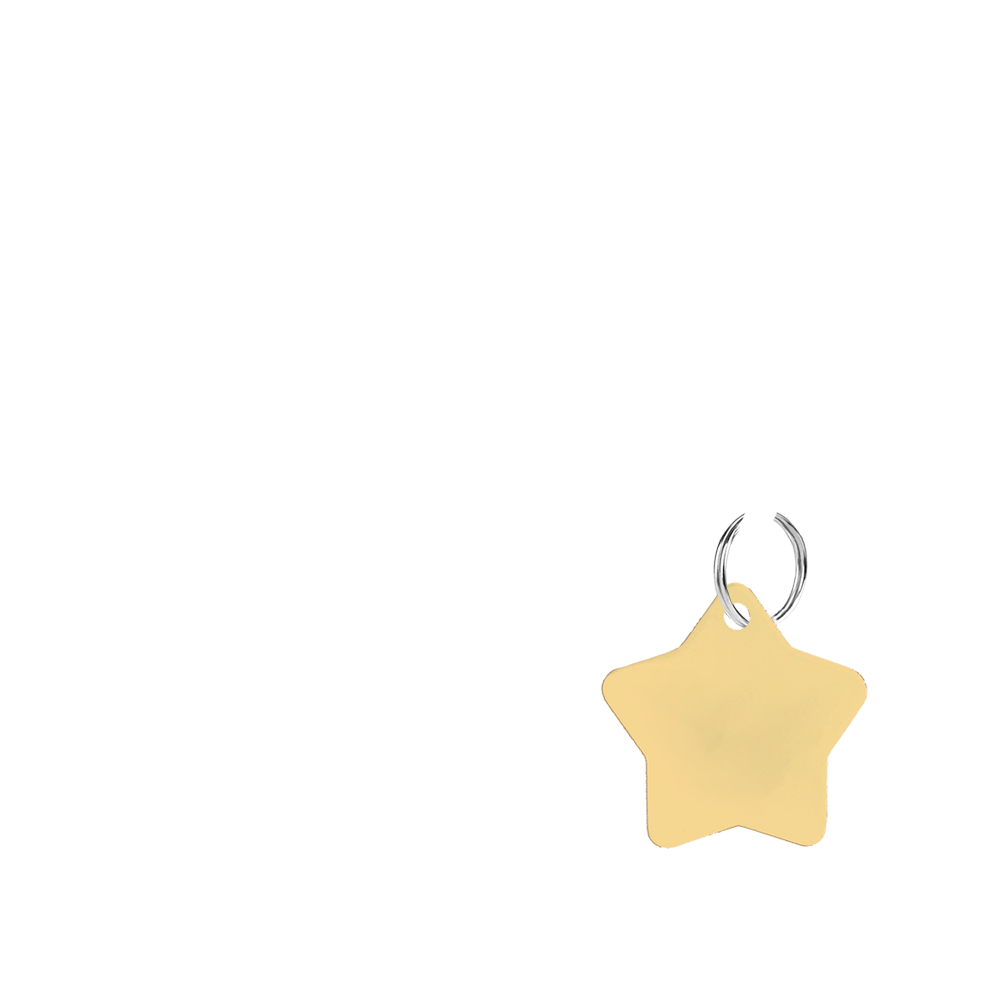
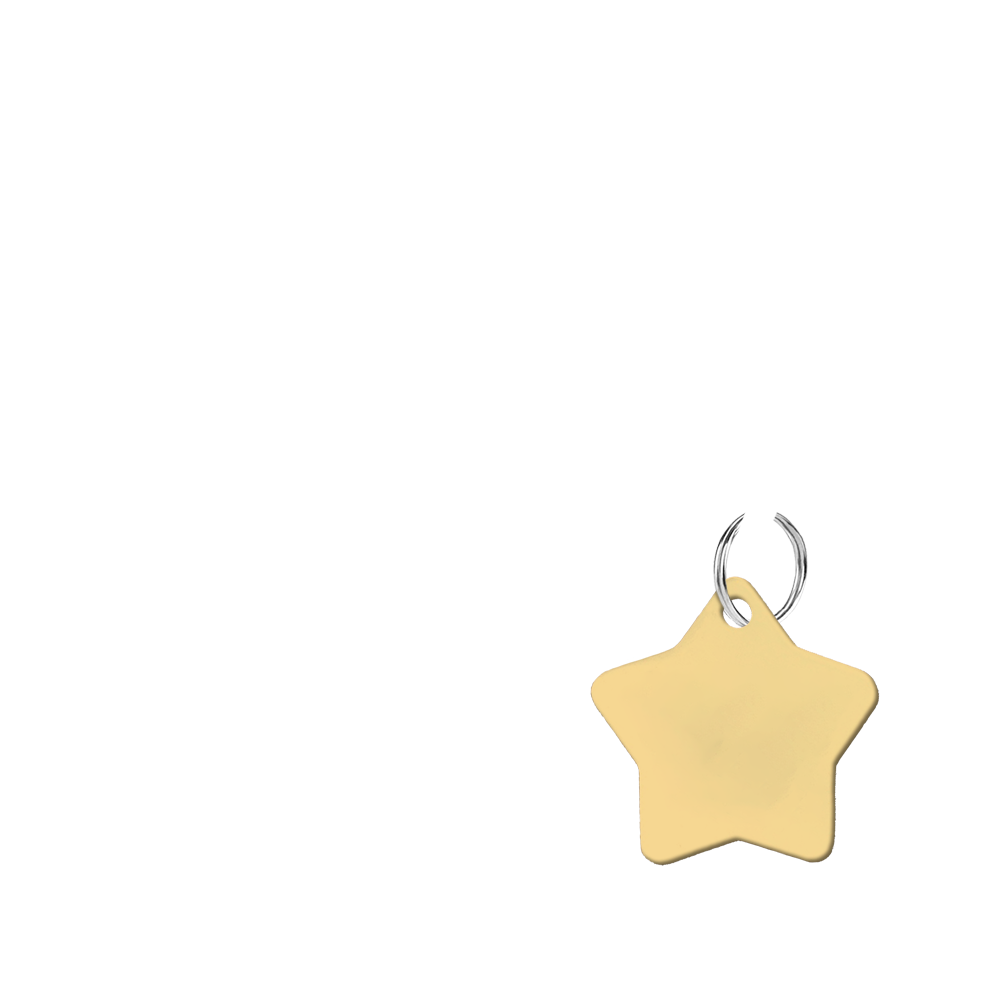
客製化更新

Changed region(s): [[0.589, 0.651, 0.899, 0.868], [0.682, 0.558, 0.775, 0.651], [0.775, 0.62, 0.806, 0.651]]

diff --git a/dest/customized.html b/dest/customized.html
@@ -48,7 +48,6 @@
         <div class="content">
             <!-- 客製化content,含預覽區以及編輯區 -->
             <div class="preview_area" id="preview_area" style="background-color: rgba(255, 185, 185, 0.3)">
-                <h1 class="enSpecialFont">Collar</h1>
                 <!-- 預覽區 -->
                 <canvas id="canvas2" style="border: 0px solid blue;"></canvas>
                 <canvas id="canvas" style="border: 0px solid red;"></canvas>
@@ -130,7 +129,7 @@
                     <div id="tabsContent">
                         <div id="tab-1" class="tab-content current">
                             <div class="collarImagesContainer" style="padding: 0px;">
-                                <div class="collarImagesBoxs" style="background-color: rgba(255, 185, 185, 0.4); border: 3px solid #7e9c23;" id="collarImage1"><img src="./img/customized_collar/collarImages/1collar_FFB9B9.png" class="collarImages imageApplying"><img src="./img/customized_collar/collar_shadow.png" class="collarShadow shadowApplying"></div>
+                                <div class="collarImagesBoxs" style="background-color: rgba(255, 185, 185, 0.4); border: 0px solid #7e9c23;" id="collarImage1"><img src="./img/customized_collar/collarImages/1collar_FFB9B9.png" class="collarImages imageApplying"><img src="./img/customized_collar/collar_shadow.png" class="collarShadow shadowApplying"></div>
                                 <div class="collarImagesBoxs" style="background-color: rgba(255, 128, 128, 0.4);" id="collarImage2"><img src="./img/customized_collar/collarImages/2collar_FF8080.png" class="collarImages"><img src="./img/customized_collar/collar_shadow.png" class="collarShadow"></div>
                                 <div class="collarImagesBoxs" style="background-color: rgba(198, 36, 36, 0.4);" id="collarImage3"><img src="./img/customized_collar/collarImages/3collar_C62424.png" class="collarImages"><img src="./img/customized_collar/collar_shadow.png" class="collarShadow"></div>
                                 <div class="collarImagesBoxs" style="background-color: rgba(255, 181, 106, 0.4);" id="collarImage4"><img src="./img/customized_collar/collarImages/4collar_FFB46A.png" class="collarImages"><img src="./img/customized_collar/collar_shadow.png" class="collarShadow"></div>
@@ -197,7 +196,7 @@
                                         </div>
                                     </div>
                                     <div class="tagItems">
-                                        <img src="./img/customized_collar/tag_png/fishTag.png" alt="" class="tagImages">
+                                        <img src="./img/customized_collar/tag_png/fishTag_2.png" alt="" class="tagImages">
                                         <div class="lockPoint">
                                             <span>所需點數&nbsp;:</span>
                                             <span>&nbsp;300</span>
@@ -227,7 +226,7 @@
                                         </div>
                                     </div>
                                     <div class="tagItems">
-                                        <img src="./img/customized_collar/tag_png/spadesTag.png" alt="" class="tagImages">
+                                        <img src="./img/customized_collar/tag_png/spadesTag_2.png" alt="" class="tagImages">
                                         <div class="lockPoint">
                                             <span>所需點數&nbsp;:</span>
                                             <span>&nbsp;300</span>
@@ -477,7 +476,7 @@
                             $(this).parent().children().children().next().removeClass("shadowApplying");
                             $(this).children().next().addClass("shadowApplying");
                             $(this).parent().children().css("border", "0px solid red");
-                            $(this).css("border", "3px solid #7e9c23");
+                            $(this).css("border", "0px solid #7e9c23");
 
                             preBackgroundColor = $(this).css("background-color");
                             $('#preview_area').css("background-color", preBackgroundColor);

diff --git a/dev/customized.html b/dev/customized.html
@@ -20,7 +20,6 @@
         <div class="content">
             <!-- 客製化content,含預覽區以及編輯區 -->
             <div class="preview_area" id="preview_area" style="background-color: rgba(255, 185, 185, 0.3)">
-                <h1 class="enSpecialFont">Collar</h1>
                 <!-- 預覽區 -->
                 <canvas id="canvas2" style="border: 0px solid blue;"></canvas>
                 <canvas id="canvas" style="border: 0px solid red;"></canvas>
@@ -102,7 +101,7 @@
                     <div id="tabsContent">
                         <div id="tab-1" class="tab-content current">
                             <div class="collarImagesContainer" style="padding: 0px;">
-                                <div class="collarImagesBoxs" style="background-color: rgba(255, 185, 185, 0.4); border: 3px solid #7e9c23;" id="collarImage1"><img src="./img/customized_collar/collarImages/1collar_FFB9B9.png" class="collarImages imageApplying"><img src="./img/customized_collar/collar_shadow.png" class="collarShadow shadowApplying"></div>
+                                <div class="collarImagesBoxs" style="background-color: rgba(255, 185, 185, 0.4); border: 0px solid #7e9c23;" id="collarImage1"><img src="./img/customized_collar/collarImages/1collar_FFB9B9.png" class="collarImages imageApplying"><img src="./img/customized_collar/collar_shadow.png" class="collarShadow shadowApplying"></div>
                                 <div class="collarImagesBoxs" style="background-color: rgba(255, 128, 128, 0.4);" id="collarImage2"><img src="./img/customized_collar/collarImages/2collar_FF8080.png" class="collarImages"><img src="./img/customized_collar/collar_shadow.png" class="collarShadow"></div>
                                 <div class="collarImagesBoxs" style="background-color: rgba(198, 36, 36, 0.4);" id="collarImage3"><img src="./img/customized_collar/collarImages/3collar_C62424.png" class="collarImages"><img src="./img/customized_collar/collar_shadow.png" class="collarShadow"></div>
                                 <div class="collarImagesBoxs" style="background-color: rgba(255, 181, 106, 0.4);" id="collarImage4"><img src="./img/customized_collar/collarImages/4collar_FFB46A.png" class="collarImages"><img src="./img/customized_collar/collar_shadow.png" class="collarShadow"></div>
@@ -169,7 +168,7 @@
                                         </div>
                                     </div>
                                     <div class="tagItems">
-                                        <img src="./img/customized_collar/tag_png/fishTag.png" alt="" class="tagImages">
+                                        <img src="./img/customized_collar/tag_png/fishTag_2.png" alt="" class="tagImages">
                                         <div class="lockPoint">
                                             <span>所需點數&nbsp;:</span>
                                             <span>&nbsp;300</span>
@@ -199,7 +198,7 @@
                                         </div>
                                     </div>
                                     <div class="tagItems">
-                                        <img src="./img/customized_collar/tag_png/spadesTag.png" alt="" class="tagImages">
+                                        <img src="./img/customized_collar/tag_png/spadesTag_2.png" alt="" class="tagImages">
                                         <div class="lockPoint">
                                             <span>所需點數&nbsp;:</span>
                                             <span>&nbsp;300</span>
@@ -449,7 +448,7 @@
                             $(this).parent().children().children().next().removeClass("shadowApplying");
                             $(this).children().next().addClass("shadowApplying");
                             $(this).parent().children().css("border", "0px solid red");
-                            $(this).css("border", "3px solid #7e9c23");
+                            $(this).css("border", "0px solid #7e9c23");
 
                             preBackgroundColor = $(this).css("background-color");
                             $('#preview_area').css("background-color", preBackgroundColor);

diff --git a/dest/js/customized.js b/dest/js/customized.js
@@ -240,16 +240,16 @@ function dofirst() {
     resizeCanvas();
 
     function resizeCanvas() {
-        canvas.width = previewArea.clientWidth;
-        canvas.height = previewArea.clientHeight;
-        canvas2.width = previewArea.clientWidth;
-        canvas2.height = previewArea.clientHeight;
-        imgRatio = 1000 / 1000;
-        imgWidth = previewArea.clientWidth * 0.7;
-        imgHeight = imgWidth * imgRatio;
-        imgOffsetX = (canvas.width - imgWidth) / 2;
-        imgOffsetY = (canvas.height - imgHeight) / 2;
-        if (window.innerWidth <= 414) {
+        canvas.width = previewArea.clientWidth; //第一個canvas的寬 = 父層div的寬
+        canvas.height = previewArea.clientHeight; //第一個canvas的高 = 父層div的高
+        canvas2.width = previewArea.clientWidth; //第二個canvas的寬 = 父層div的寬
+        canvas2.height = previewArea.clientHeight; //第二個canvas的高 = 父層div的高
+        imgRatio = 1000 / 1000; //圖片寬高比例
+        imgWidth = previewArea.clientWidth * 0.7; //圖片寬度參數
+        imgHeight = imgWidth * imgRatio; //圖片高度參數
+        imgOffsetX = (canvas.width - imgWidth) / 2; //圖片X位移量
+        imgOffsetY = (canvas.height - imgHeight) / 2; //圖片Y位移量
+        if (window.innerWidth <= 414) { //RWD
             imgWidth = previewArea.clientWidth * 1;
             imgHeight = imgWidth * imgRatio;
             imgOffsetX = (canvas.width - imgWidth) / 2;
@@ -314,10 +314,7 @@ function dofirst() {
         });
         context.drawImage(tagImg2, imgOffsetX, imgOffsetY, imgWidth, imgHeight);
         //-----------------------------------------------------------------------------------
-
-
     }
     window.addEventListener('resize', resizeCanvas);
-
 }
 window.addEventListener('load', dofirst);

diff --git a/dev/js/customized.js b/dev/js/customized.js
@@ -240,16 +240,16 @@ function dofirst() {
     resizeCanvas();
 
     function resizeCanvas() {
-        canvas.width = previewArea.clientWidth;
-        canvas.height = previewArea.clientHeight;
-        canvas2.width = previewArea.clientWidth;
-        canvas2.height = previewArea.clientHeight;
-        imgRatio = 1000 / 1000;
-        imgWidth = previewArea.clientWidth * 0.7;
-        imgHeight = imgWidth * imgRatio;
-        imgOffsetX = (canvas.width - imgWidth) / 2;
-        imgOffsetY = (canvas.height - imgHeight) / 2;
-        if (window.innerWidth <= 414) {
+        canvas.width = previewArea.clientWidth; //第一個canvas的寬 = 父層div的寬
+        canvas.height = previewArea.clientHeight; //第一個canvas的高 = 父層div的高
+        canvas2.width = previewArea.clientWidth; //第二個canvas的寬 = 父層div的寬
+        canvas2.height = previewArea.clientHeight; //第二個canvas的高 = 父層div的高
+        imgRatio = 1000 / 1000; //圖片寬高比例
+        imgWidth = previewArea.clientWidth * 0.7; //圖片寬度參數
+        imgHeight = imgWidth * imgRatio; //圖片高度參數
+        imgOffsetX = (canvas.width - imgWidth) / 2; //圖片X位移量
+        imgOffsetY = (canvas.height - imgHeight) / 2; //圖片Y位移量
+        if (window.innerWidth <= 414) { //RWD
             imgWidth = previewArea.clientWidth * 1;
             imgHeight = imgWidth * imgRatio;
             imgOffsetX = (canvas.width - imgWidth) / 2;
@@ -314,10 +314,7 @@ function dofirst() {
         });
         context.drawImage(tagImg2, imgOffsetX, imgOffsetY, imgWidth, imgHeight);
         //-----------------------------------------------------------------------------------
-
-
     }
     window.addEventListener('resize', resizeCanvas);
-
 }
 window.addEventListener('load', dofirst);
